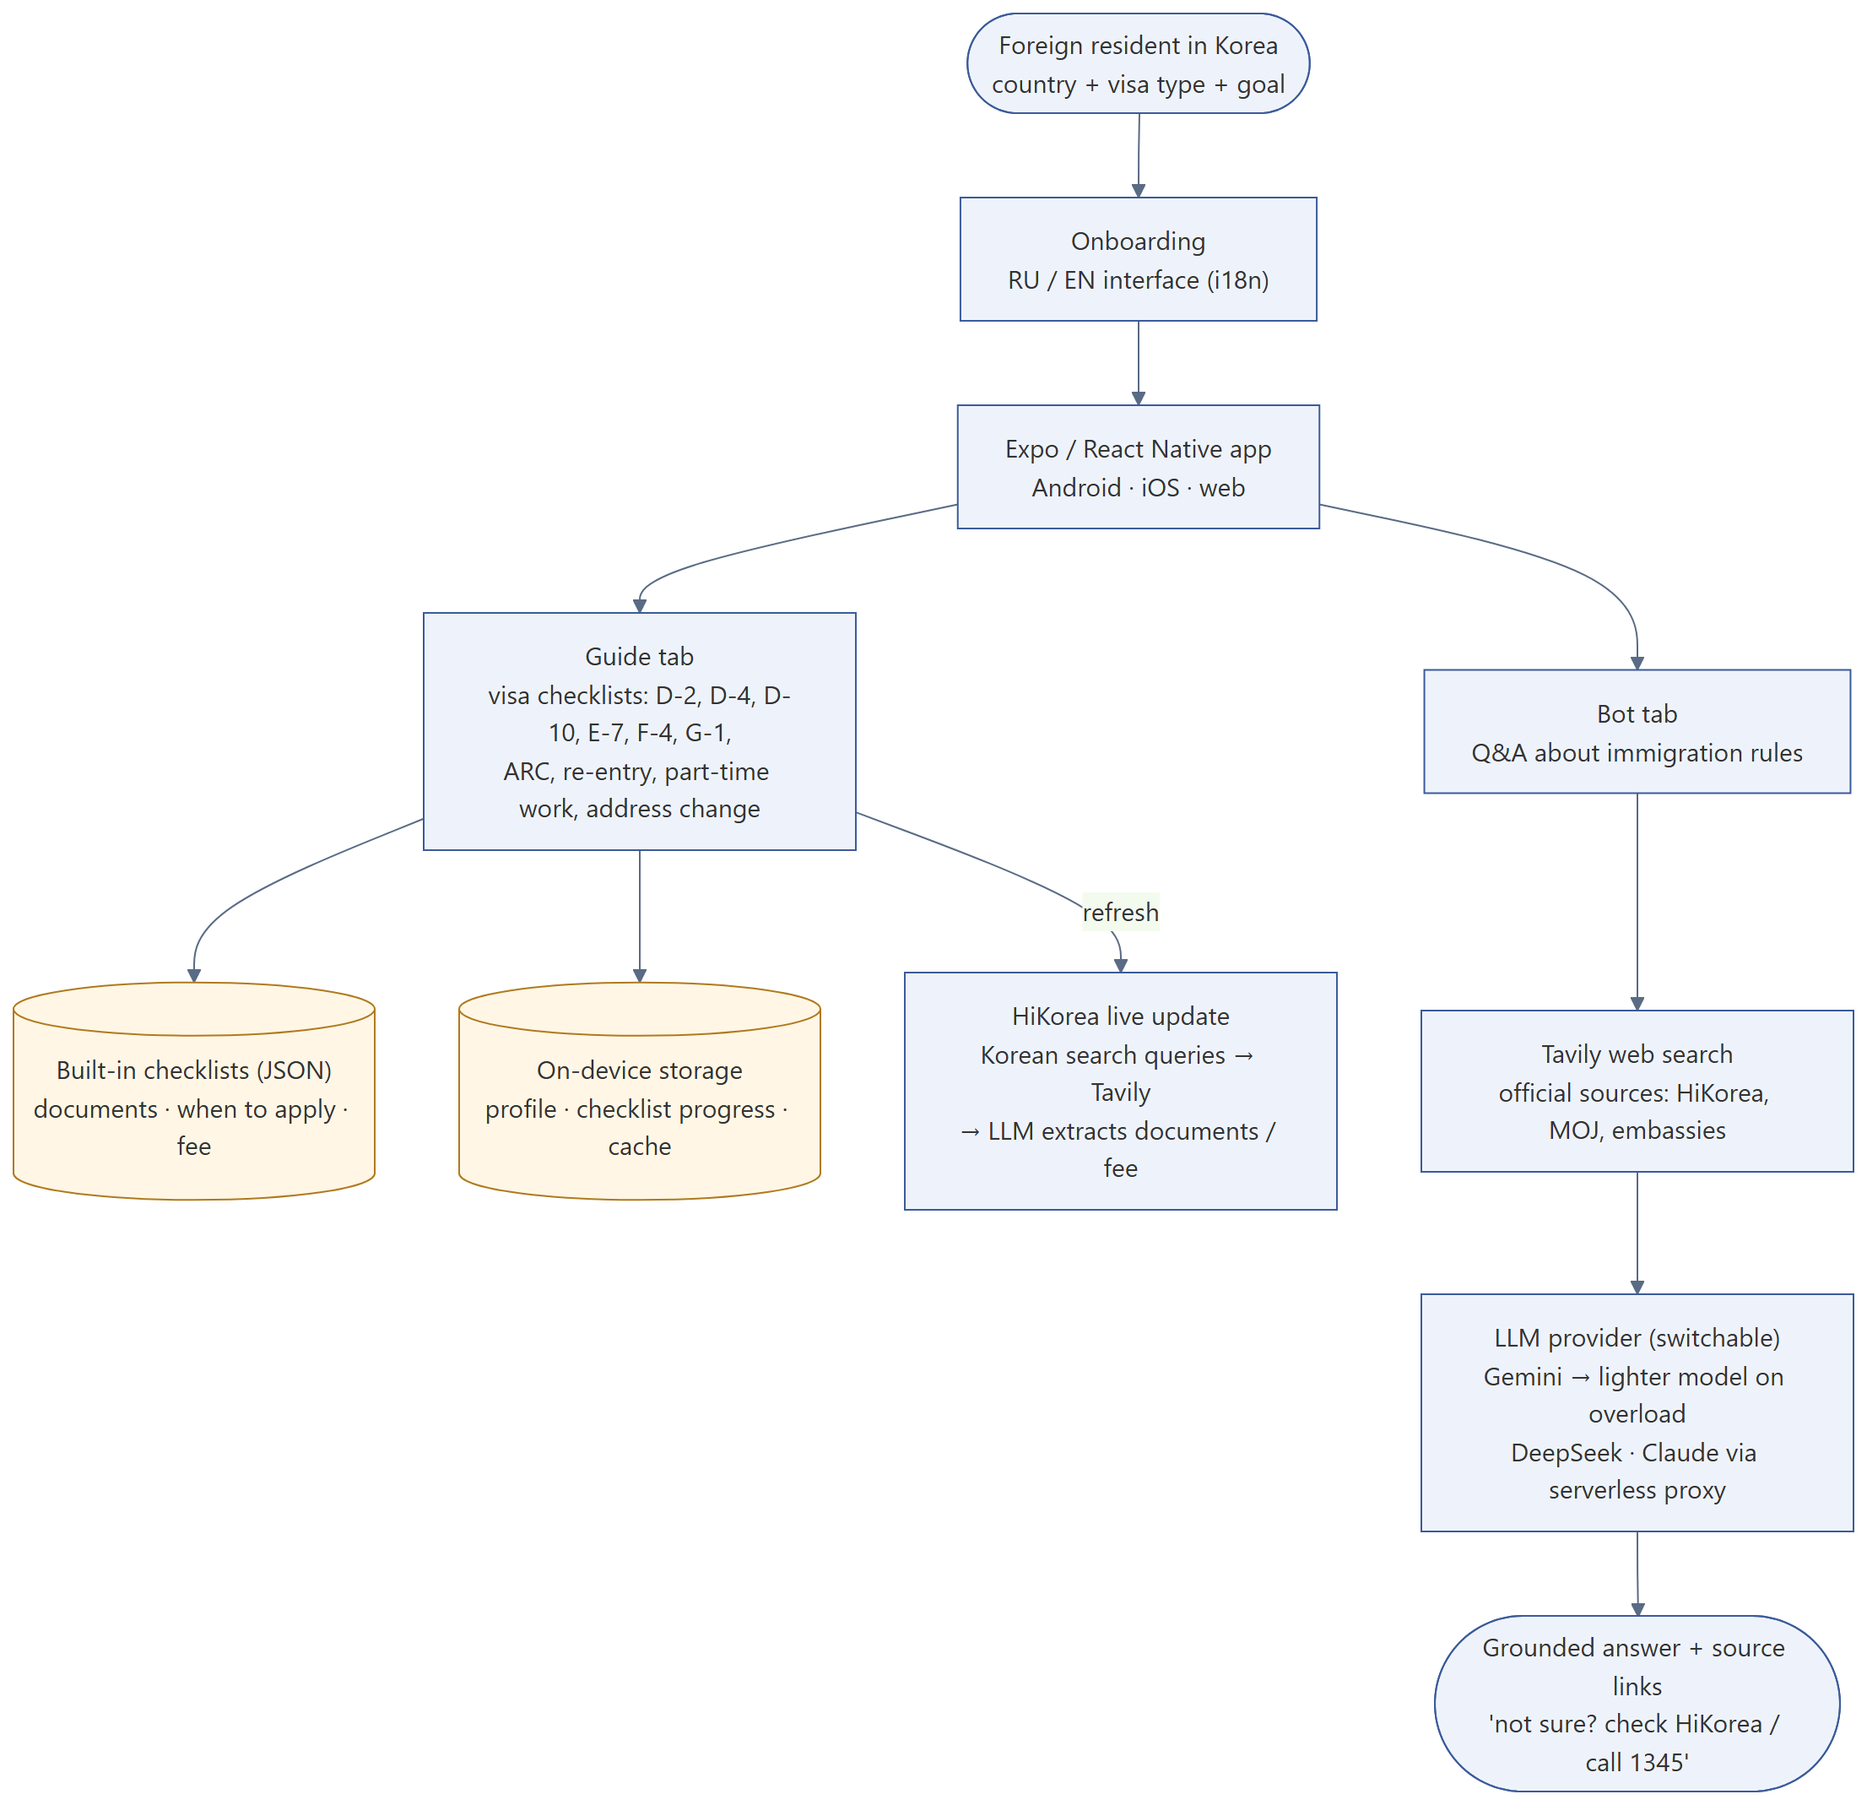
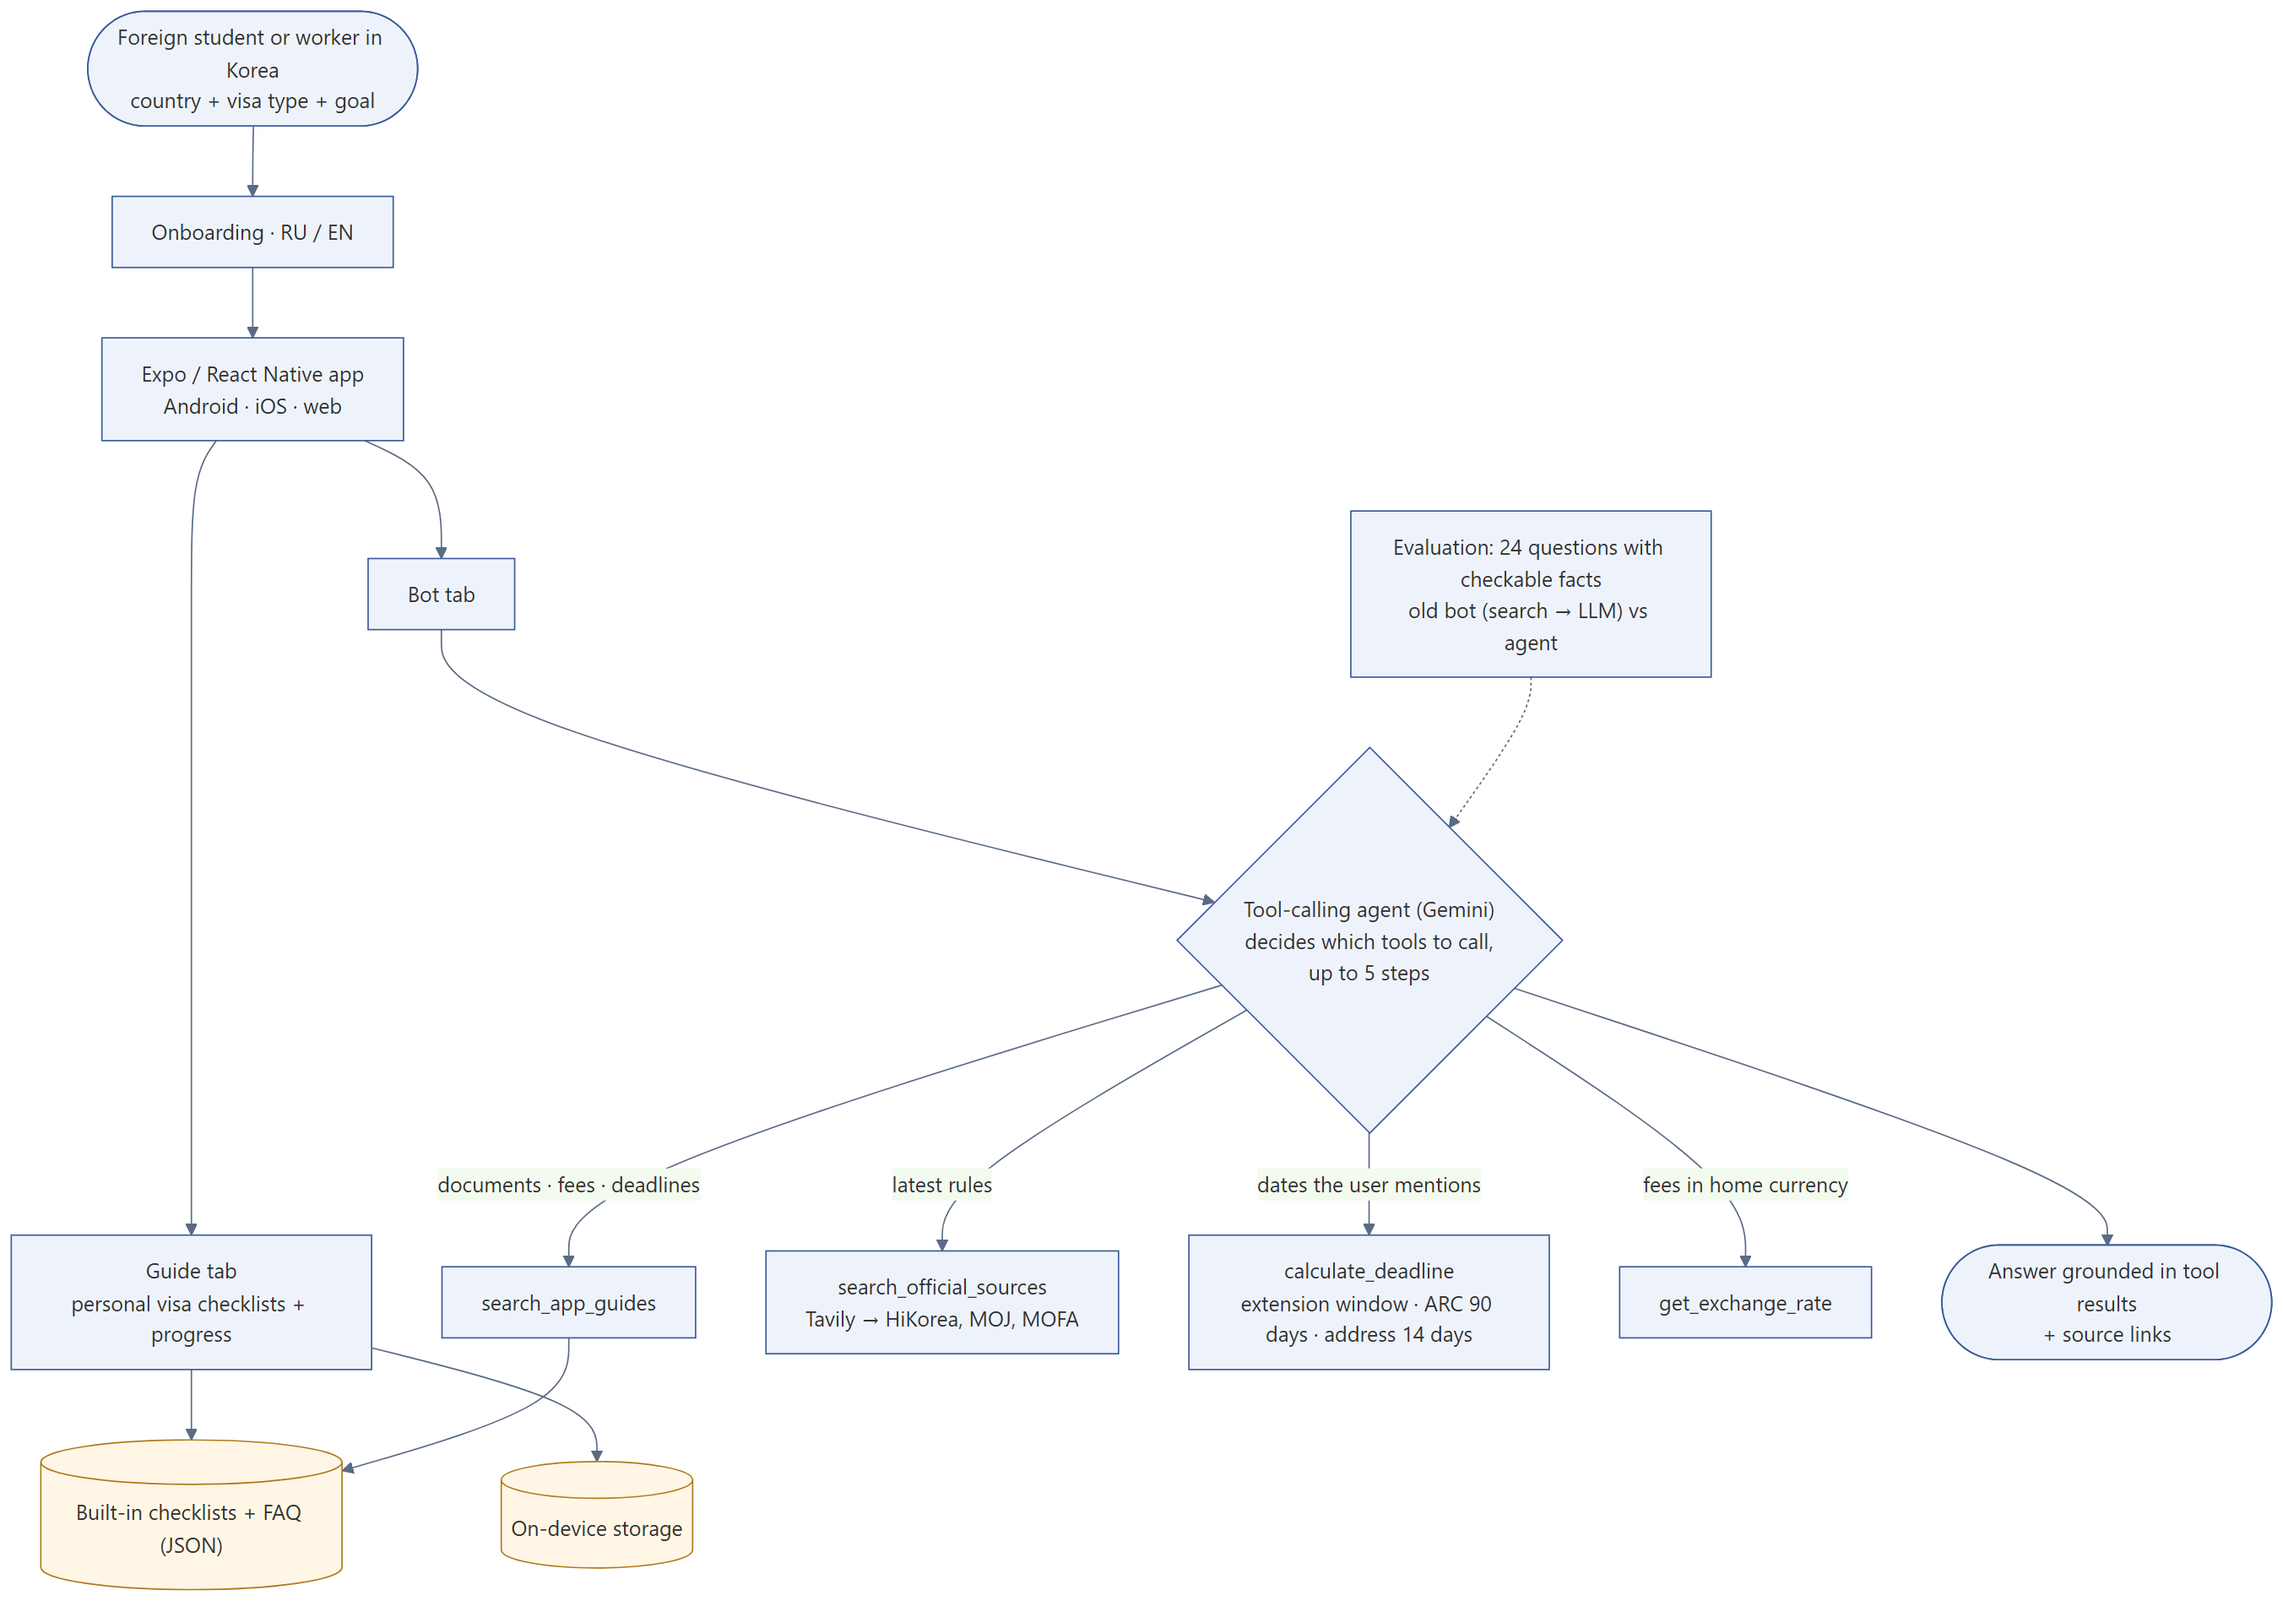
Korea Visa Guide: tool-calling agent and evaluation

diff --git a/app/data.js b/app/data.js
@@ -102,6 +102,48 @@ export const aiProjects = [
     links: [],
   },
   {
+    slug: "korea-visa-guide",
+    badge: { en: "LLM agent · mobile app", ko: "LLM 에이전트 · 모바일 앱" },
+    title: { en: "Korea Visa Guide: tool-calling agent", ko: "Korea Visa Guide: 도구 호출 에이전트" },
+    tagline: {
+      en: "A visa assistant for foreigners in Korea that decides which tools to use: app guides, official-site search, a deadline calculator and exchange rates.",
+      ko: "가이드 검색, 공식 사이트 검색, 기한 계산, 환율 중 필요한 도구를 스스로 고르는 외국인용 비자 어시스턴트입니다.",
+    },
+    tags: ["Gemini function calling", "Agent", "Evaluation", "Expo / React Native", "TypeScript", "Tavily"],
+    results: [
+      { en: "Correct answers: 8–13% → 96–100% (24-question eval, 3 runs)", ko: "정답률 8–13% → 96–100% (24문항 평가, 3회)" },
+      { en: "Expected tool chosen in 92–96% of questions", ko: "92–96% 질문에서 올바른 도구 선택" },
+      { en: "Dates computed by code, never guessed by the model", ko: "날짜는 모델이 아닌 코드가 계산" },
+    ],
+    problem: {
+      en: "The first version of the bot only searched the web. On \"How do I extend a D-2 visa?\" it answered \"not in the sources\", although the app's own checklist had the answer; it also could not work out dates or convert fees.",
+      ko: "첫 번째 봇은 웹 검색만 했습니다. \"D-2 연장 방법\"을 물으면 앱 체크리스트에 답이 있는데도 \"자료에 없음\"이라고 답했고, 날짜 계산이나 수수료 환산도 하지 못했습니다.",
+    },
+    points: {
+      en: [
+        "Rebuilt the bot as a Gemini function-calling agent (up to 5 steps) with 4 tools: search_app_guides, search_official_sources (HiKorea, MOJ, MOFA), calculate_deadline and get_exchange_rate.",
+        "The model must base every fact on tool results; dates (extension window, 90-day ARC rule, 14-day address rule) come from code, not from the model.",
+        "Built a 24-question evaluation in Russian and English with checkable facts and compared the old bot and the agent on the same model: 8–13% vs 96–100% across three runs.",
+        "Found and fixed issues along the way: a retired Gemini model name, no fallback on overload, a token limit that cut long answers to empty, and Markdown showing as raw symbols in the chat.",
+        "Also: onboarding by country and visa, personal checklists with progress saved on the device, RU/EN interface.",
+      ],
+      ko: [
+        "봇을 Gemini 함수 호출 에이전트(최대 5단계)로 다시 만들었습니다. 도구는 4개입니다: 앱 가이드 검색, 공식 사이트 검색(하이코리아·법무부·외교부), 기한 계산, 환율 조회.",
+        "모든 사실은 도구 결과에 근거해야 하며, 날짜(연장 신청 기간, ARC 90일, 주소 변경 14일)는 모델이 아니라 코드가 계산합니다.",
+        "검증 가능한 사실이 담긴 러시아어·영어 24문항 평가셋을 만들어 같은 모델로 기존 봇과 에이전트를 비교했습니다: 3회 실행 기준 8–13% 대 96–100%.",
+        "개발 중 발견한 문제도 해결했습니다: 서비스 종료된 Gemini 모델명, 과부하 시 대체 로직 부재, 긴 답변을 빈 응답으로 만들던 토큰 한도, 채팅에 그대로 보이던 마크다운 기호.",
+        "그 외: 국가·비자별 온보딩, 기기에 저장되는 맞춤 체크리스트, 러시아어·영어 인터페이스.",
+      ],
+    },
+    images: [
+      { src: img("korea-visa-guide", "06_agent_deadline_fee.png"), cap: { en: "One question, three tools: deadline window, fee in Kyrgyz som, documents from the app's checklist", ko: "질문 하나에 도구 세 개: 신청 기간, 솜 환산 수수료, 체크리스트 서류" }, phone: true },
+      { src: img("korea-visa-guide", "architecture.png"), cap: { en: "Agent architecture", ko: "에이전트 아키텍처" } },
+      { src: img("korea-visa-guide", "03_checklist_d2.png"), cap: { en: "D-2 extension checklist", ko: "D-2 연장 체크리스트" }, phone: true },
+      { src: img("korea-visa-guide", "02_dashboard.png"), cap: { en: "Dashboard", ko: "대시보드" }, phone: true },
+    ],
+    links: [{ label: "GitHub", href: "https://github.com/askarbekkk/korea-visa-guide" }],
+  },
+  {
     slug: "offline-rag",
     badge: { en: "Client project", ko: "클라이언트 프로젝트" },
     title: { en: "Secure Offline RAG", ko: "보안 오프라인 RAG" },
@@ -368,43 +410,6 @@ export const aiProjects = [
 ];
 
 export const appProjects = [
-  {
-    slug: "korea-visa-guide",
-    badge: { en: "Mobile app · AI", ko: "모바일 앱 · AI" },
-    title: { en: "Korea Visa Guide", ko: "Korea Visa Guide 비자 가이드" },
-    tagline: {
-      en: "Personal visa checklists and an official-source Q&A bot for foreign students and workers in Korea.",
-      ko: "외국인 유학생·근로자를 위한 맞춤 비자 체크리스트와 공식 자료 기반 Q&A 봇.",
-    },
-    tags: ["Expo", "React Native", "TypeScript", "Tavily", "Gemini", "i18n"],
-    results: [
-      { en: "Checklists for D-2, D-10, E-7, F-4 and more", ko: "D-2, D-10, E-7, F-4 등 체크리스트" },
-      { en: "Answers with links to HiKorea and MOJ", ko: "하이코리아·법무부 출처 링크 제공" },
-      { en: "Android, iOS and web from one codebase", ko: "하나의 코드로 안드로이드·iOS·웹" },
-    ],
-    problem: {
-      en: "Visa rules live on HiKorea, mostly in Korean, and change over time. Newcomers do not know which documents they need or when to apply.",
-      ko: "비자 규정은 주로 한국어로 된 하이코리아에 있고 자주 바뀝니다. 새로 온 사람은 어떤 서류가 필요한지, 언제 신청해야 하는지 알기 어렵습니다.",
-    },
-    points: {
-      en: [
-        "Onboarding by country, visa and goal builds a personal list of procedures with progress saved on the device.",
-        "Korean-language searches refresh requirements from HiKorea; an LLM extracts documents and fees.",
-        "While preparing the demo I replaced a retired Gemini model name and added a fallback for overload errors.",
-      ],
-      ko: [
-        "국가, 비자, 목적을 고르면 맞춤 절차 목록이 만들어지고 진행 상황은 기기에 저장됩니다.",
-        "한국어 검색으로 하이코리아의 최신 요건을 가져오고 LLM이 서류와 수수료를 추출합니다.",
-        "데모 준비 중 서비스 종료된 Gemini 모델명을 교체하고 과부하 오류에 대비한 대체 로직을 추가했습니다.",
-      ],
-    },
-    images: [
-      { src: img("korea-visa-guide", "03_checklist_d2.png"), cap: { en: "D-2 extension checklist", ko: "D-2 연장 체크리스트" }, phone: true },
-      { src: img("korea-visa-guide", "02_dashboard.png"), cap: { en: "Dashboard", ko: "대시보드" }, phone: true },
-      { src: img("korea-visa-guide", "04_bot_answer.png"), cap: { en: "Q&A bot with sources", ko: "출처가 있는 Q&A 봇" }, phone: true },
-    ],
-    links: [{ label: "GitHub", href: "https://github.com/askarbekkk/korea-visa-guide" }],
-  },
   {
     slug: "currency-radar",
     badge: { en: "PWA + Android", ko: "PWA + 안드로이드" },

diff --git a/projects/korea-visa-guide/README.md b/projects/korea-visa-guide/README.md
@@ -15,15 +15,22 @@ A mobile app (Android, iOS and web from one codebase):
 
 ![Architecture](architecture.png)
 
+## Tool-calling agent
+The first bot only searched the web and answered "not in the sources" even when the app's own checklist had the answer. I rebuilt it as a Gemini function-calling agent with four tools: `search_app_guides`, `search_official_sources` (HiKorea, MOJ, MOFA), `calculate_deadline` and `get_exchange_rate`. Dates are computed by code, never by the model.
+
+**Evaluation:** 24 questions with checkable facts (RU/EN), same model for both systems. Previous bot 8–13%, agent 96–100% over three runs; the expected tool was chosen in 92–96% of questions. In the final run the only miss was a free-tier rate-limit error.
+
+![Agent](06_agent_deadline_fee.png)
+
 ## Demo (web build)
 | Onboarding | Dashboard | D-2 extension checklist | Bot |
 |---|---|---|---|
 | ![](01_onboarding_step2.png) | ![](02_dashboard.png) | ![](03_checklist_d2.png) | ![](04_bot_answer.png) |
 
-## What I fixed while preparing this demo
+## What I fixed along the way
 - The Gemini model name was pinned to `gemini-2.0-flash`, which Google retired (404). It now uses the `gemini-flash-latest` alias.
 - Added a fallback to `gemini-flash-lite-latest` when the main model is overloaded (429/503).
+- Raised the output-token limit after long answers came back empty, and switched answers to plain text because the chat showed raw Markdown.
 
 ## Next steps
-- The bot searches only the web; it should also read the app's own checklists (the D-2 extension answer is already there).
 - API keys are bundled into the client (`EXPO_PUBLIC_*`). Before a public release the LLM calls must go through a small server proxy.
